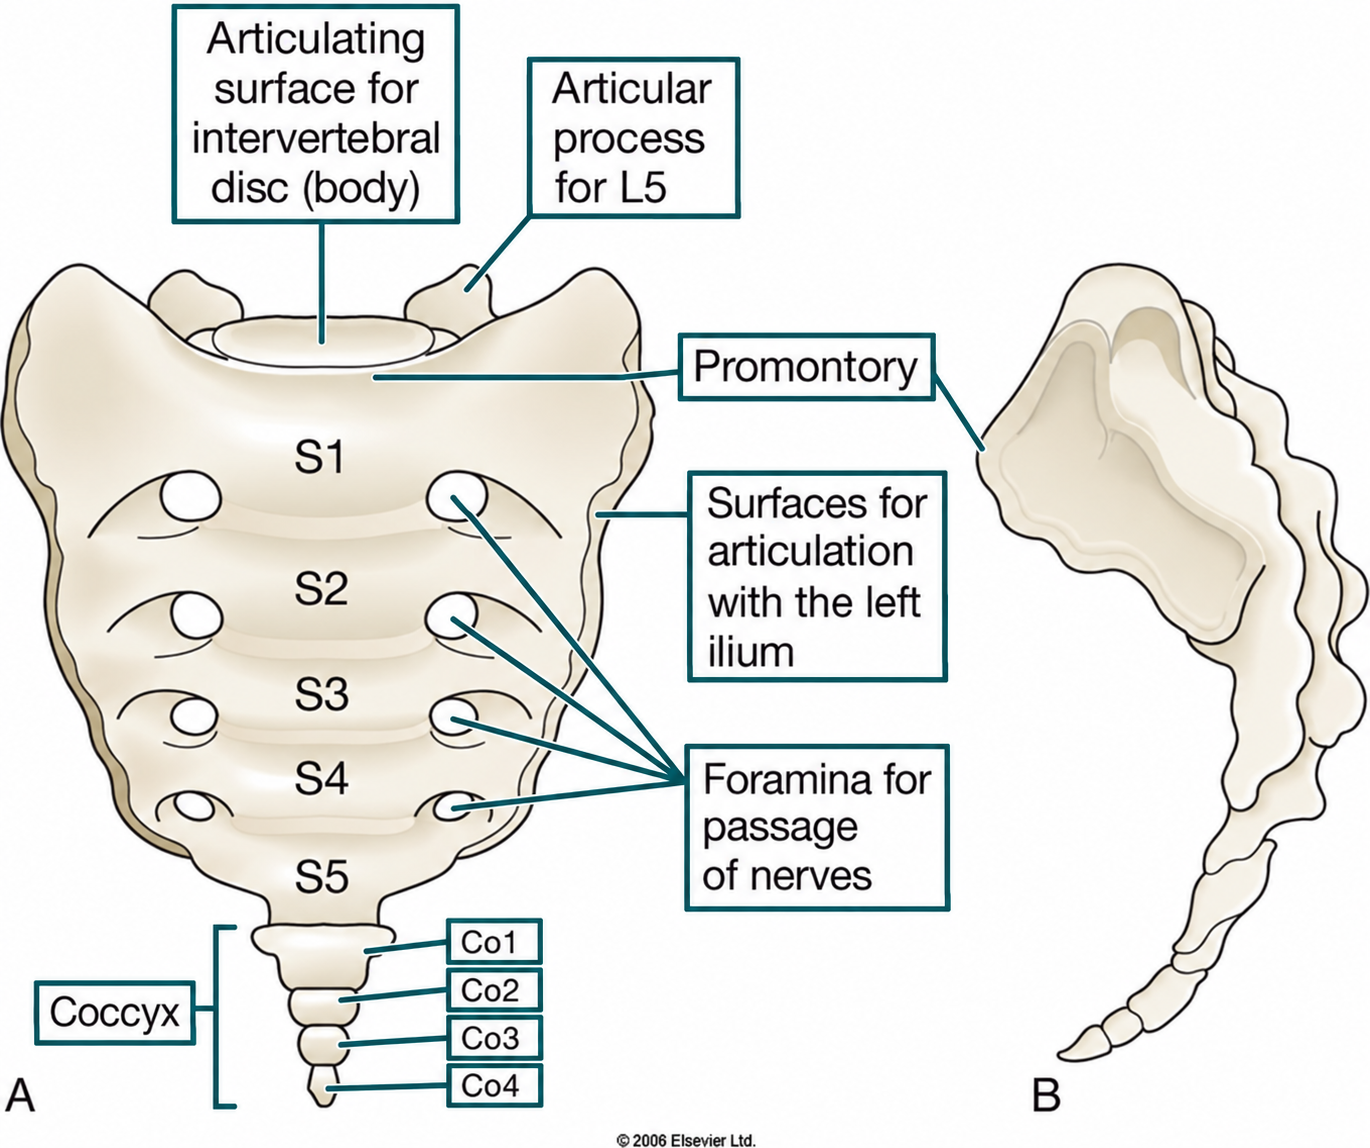
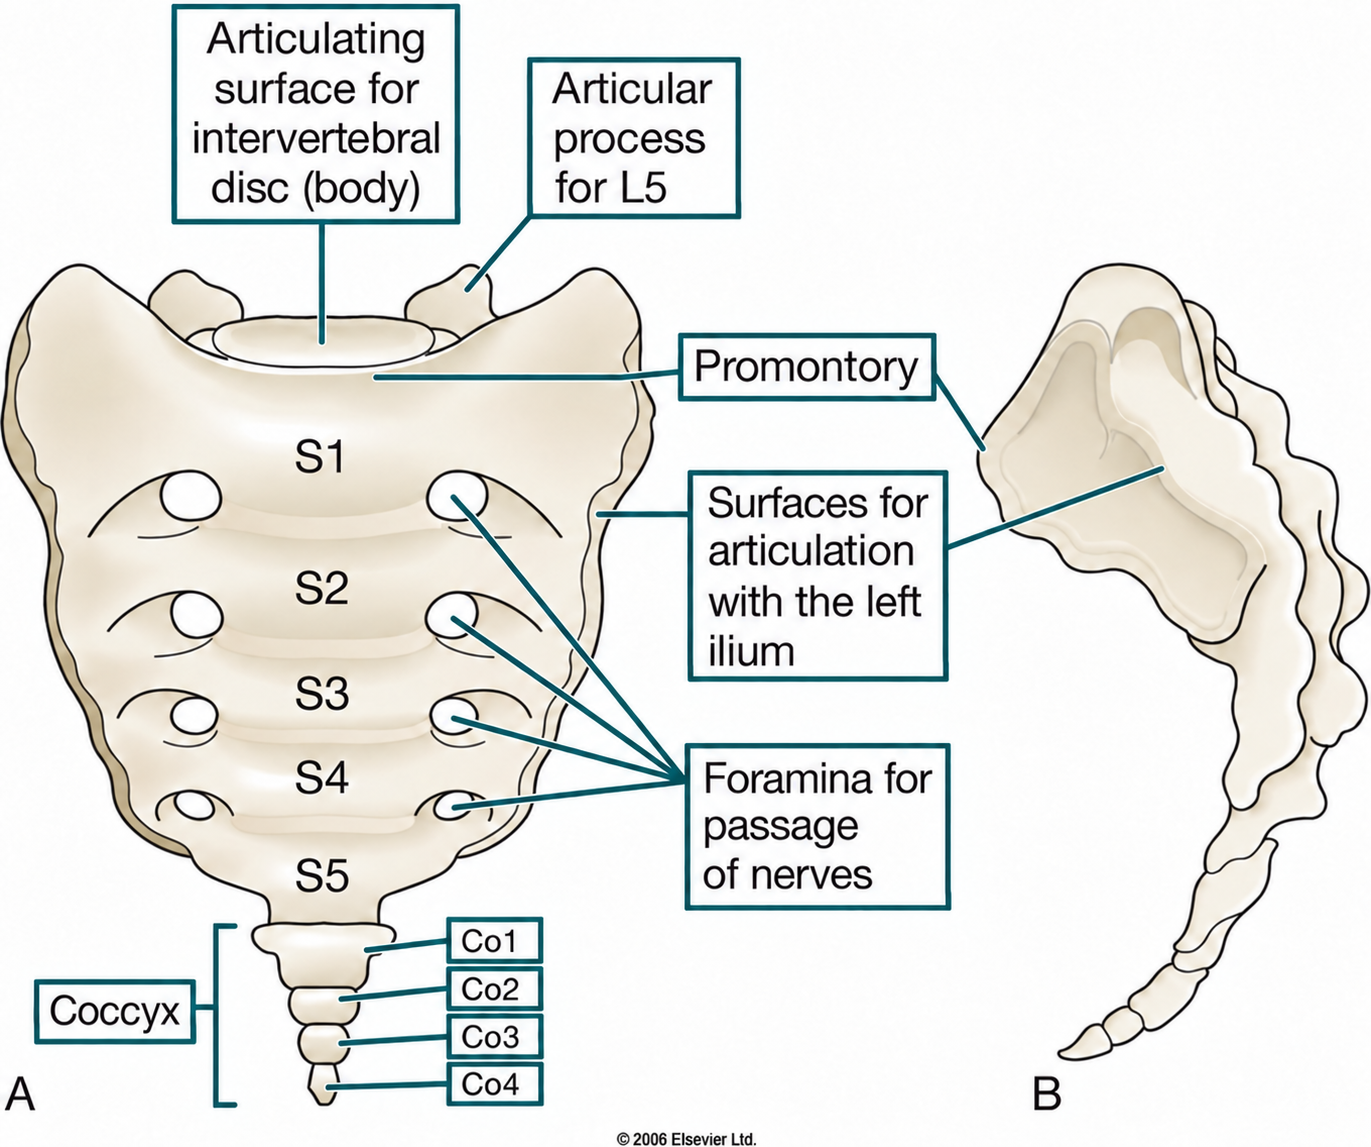
Release 1.0.34 with updated sacrum and coccyx diagram

diff --git a/question-bank.js b/question-bank.js
@@ -620,19 +620,17 @@ window.diagramQuestionDatabase = [
     { id: 'lumbar-lamina', name: 'Lamina', x: 77.9, y: 58.0, targetWidth: 170 },
     { id: 'lumbar-spinous-process', name: 'Spinous process', x: 71.7, y: 72.9, targetWidth: 220 }
   ] } },
-  { id: 'diagram-musculoskeletal-07', topic: 'musculoskeletal', type: 'diagram', question: 'Drag each source label onto the matching structure in the sacrum and coccyx diagram.', explanation: 'The sacrum is a fused triangular group of five sacral vertebrae. It has a promontory, an articulation surface for the ilium and foramina for passage of nerves. The coccyx is formed from four small coccygeal vertebrae labelled Co1 to Co4.', diagram: { image: 'assets/test-diagrams/Sacrum-and-Coccyx-test-diagram.png', alt: 'Anterior and lateral sacrum and coccyx diagrams with blank label targets', labels: [
-    { id: 'sacrum-intervertebral-disc-surface', name: 'Articulating surface for intervertebral disc (body)', x: 25.8, y: 18.0, targetWidth: 330 },
-    { id: 'sacrum-articular-process-l5', name: 'Articular process for L5', x: 36.1, y: 14.3, targetWidth: 230 },
-    { id: 'sacrum-promontory', name: 'Promontory', x: 27.9, y: 25.7, targetWidth: 180 },
-    { id: 'sacrum-ilium-articulation', name: 'Surfaces for articulation with the left ilium', x: 34.8, y: 35.2, targetWidth: 330 },
-    { id: 'sacrum-nerve-foramina-1', name: 'Foramina for passage of nerves', x: 34.7, y: 44.4, targetWidth: 300 },
-    { id: 'sacrum-nerve-foramina-2', name: 'Foramina for passage of nerves', x: 34.6, y: 55.8, targetWidth: 300 },
-    { id: 'sacrum-nerve-foramina-3', name: 'Foramina for passage of nerves', x: 34.5, y: 64.1, targetWidth: 300 },
-    { id: 'sacrum-coccyx', name: 'Coccyx', x: 16.9, y: 84.0, targetWidth: 170 },
-    { id: 'sacrum-co1', name: 'Co1', x: 28.0, y: 78.6, targetWidth: 150 },
-    { id: 'sacrum-co2', name: 'Co2', x: 28.0, y: 82.9, targetWidth: 150 },
-    { id: 'sacrum-co3', name: 'Co3', x: 28.0, y: 86.6, targetWidth: 150 },
-    { id: 'sacrum-co4', name: 'Co4', x: 26.0, y: 91.0, targetWidth: 150 }
+  { id: 'diagram-musculoskeletal-07', topic: 'musculoskeletal', type: 'diagram', question: 'Drag each source label onto the matching structure in the sacrum and coccyx diagram.', explanation: 'The sacrum is a fused triangular group of five sacral vertebrae. It has a promontory, an articulation surface for the ilium and foramina for passage of nerves. The coccyx is formed from four small coccygeal vertebrae labelled Co1 to Co4.', diagram: { image: 'assets/test-diagrams/Sacrum-and-Coccyx-test.png', alt: 'Anterior and lateral sacrum and coccyx diagrams with blank label targets', labels: [
+    { id: 'sacrum-intervertebral-disc-surface', name: 'Articulating surface for intervertebral disc (body)', x: 25.8, y: 18.0, targetX: 12.47, targetY: 0.35, targetWidthPercent: 21.08, targetHeightPercent: 19.08 },
+    { id: 'sacrum-articular-process-l5', name: 'Articular process for L5', x: 36.1, y: 14.3, targetX: 38.44, targetY: 4.97, targetWidthPercent: 15.61, targetHeightPercent: 14.51 },
+    { id: 'sacrum-promontory', name: 'Promontory', x: 27.9, y: 25.7, targetX: 49.45, targetY: 29.01, targetWidthPercent: 18.82, targetHeightPercent: 5.92 },
+    { id: 'sacrum-ilium-articulation', name: 'Surfaces for articulation with the left ilium', x: 34.8, y: 35.2, targetX: 50.18, targetY: 41.03, targetWidthPercent: 19.04, targetHeightPercent: 18.29 },
+    { id: 'sacrum-nerve-foramina', name: 'Foramina for passage of nerves', x: 34.7, y: 44.4, targetX: 49.96, targetY: 64.81, targetWidthPercent: 19.40, targetHeightPercent: 14.46 },
+    { id: 'sacrum-coccyx', name: 'Coccyx', x: 16.9, y: 84.0, targetX: 2.48, targetY: 85.37, targetWidthPercent: 11.74, targetHeightPercent: 5.66 },
+    { id: 'sacrum-co1', name: 'Co1', x: 28.0, y: 78.6, targetX: 32.60, targetY: 79.88, targetWidthPercent: 7.00, targetHeightPercent: 4.09 },
+    { id: 'sacrum-co2', name: 'Co2', x: 28.0, y: 82.9, targetX: 32.60, targetY: 84.32, targetWidthPercent: 7.00, targetHeightPercent: 3.83 },
+    { id: 'sacrum-co3', name: 'Co3', x: 28.0, y: 86.6, targetX: 32.60, targetY: 88.33, targetWidthPercent: 7.00, targetHeightPercent: 3.92 },
+    { id: 'sacrum-co4', name: 'Co4', x: 26.0, y: 91.0, targetX: 32.60, targetY: 92.33, targetWidthPercent: 7.00, targetHeightPercent: 3.92 }
   ] } },
   { id: 'diagram-musculoskeletal-08', topic: 'musculoskeletal', type: 'diagram', question: 'Drag each source label onto the matching structure in the shoulder girdle, arm and hand diagram.', explanation: 'The shoulder girdle consists of the clavicle and scapula. The arm contains the humerus, the forearm contains the ulna and radius, and the hand contains carpals, metacarpals and phalanges.', diagram: { image: 'assets/test-diagrams/arm-test.png', alt: 'Shoulder girdle, arm and hand diagram with blank label targets', labels: [
     { id: 'upper-limb-clavicle', name: 'Clavicle', x: 70.9, y: 8.3, targetX: 74.94, targetY: 8.55, targetWidthPercent: 22.62, targetHeightPercent: 4.11 },

diff --git a/learn-content.js b/learn-content.js
@@ -98,9 +98,8 @@ window.learnContent = {
       { src: 'assets/diagrams/musculoskeletal-figure-08.jpg', alt: 'Lumbar vertebra viewed from above' },
       { src: 'assets/diagrams/musculoskeletal-figure-09.jpg', alt: 'Upper cervical vertebrae viewed from above' },
       { src: 'assets/diagrams/musculoskeletal-figure-10.jpg', alt: 'Clean labelled lumbar vertebra diagram' },
-      { src: 'assets/diagrams/musculoskeletal-figure-11.jpg', alt: 'Clean labelled atlas and axis diagram' },
-      { src: 'assets/diagrams/musculoskeletal-figure-12.jpg', alt: 'Anterior and lateral views of the sacrum and coccyx' },
-      { src: 'assets/diagrams/musculoskeletal-figure-13.jpg', alt: 'Clean labelled sacrum and coccyx diagram' },
+      { src: 'assets/diagrams/upper-vertebrae.png', alt: 'Labelled atlas and axis diagram' },
+      { src: 'assets/diagrams/Sacrum-and-Coccyx.png', alt: 'Labelled sacrum and coccyx diagram' },
       { src: 'assets/diagrams/arm.png', alt: 'Labelled shoulder girdle, arm and hand diagram' },
       { src: 'assets/diagrams/pelvis.png', alt: 'Labelled pelvis and upper femur diagram' },
       { src: 'assets/diagrams/pelvis-leg-foot.png', alt: 'Labelled pelvis, leg and foot diagram' },
